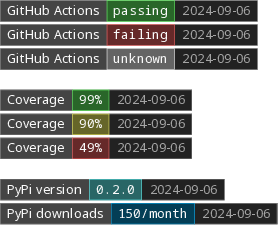
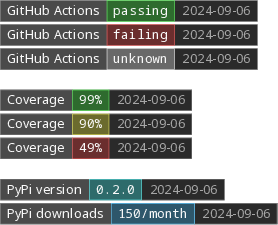
Update HTML to PNG prototype

Changed region(s): [[0.3741, 0.9022, 0.7194, 1.0]]

diff --git a/badges/static/colors.css b/badges/static/colors.css
@@ -7,13 +7,13 @@
 
 :root {
 
-  --background: 0, 0, 0;             /* 000000 */
-  --foreground: 250, 250, 250;       /* fafafa */
+  --background: 9, 9, 9;             /* 090909 */
+  --foreground: 249, 249, 249;       /* f9f9f9 */
 
-  --color-gray: 136, 136, 136;       /* 888888 */
+  --color-gray: 139, 139, 139;       /* 8b8b8b */
   --color-red: 255, 102, 102;        /* ff6666 */
+  --color-yellow: 255, 255, 102;     /* ffff66 */
+  --color-green: 102, 255, 102;      /* 66ff66 */
   --color-pink: 255, 0, 204;         /* ff00cc */
   --color-teal: 102, 255, 255;       /* 66ffff */
-  --color-blue: 8, 155, 216;         /* 089bd8 */
-  --color-green: 102, 255, 102;      /* 66ff66 */
-  --color-yellow: 255, 255, 102;  }  /* ffff66 */
+  --color-blue: 102, 204, 255; }     /* 66ccff */
